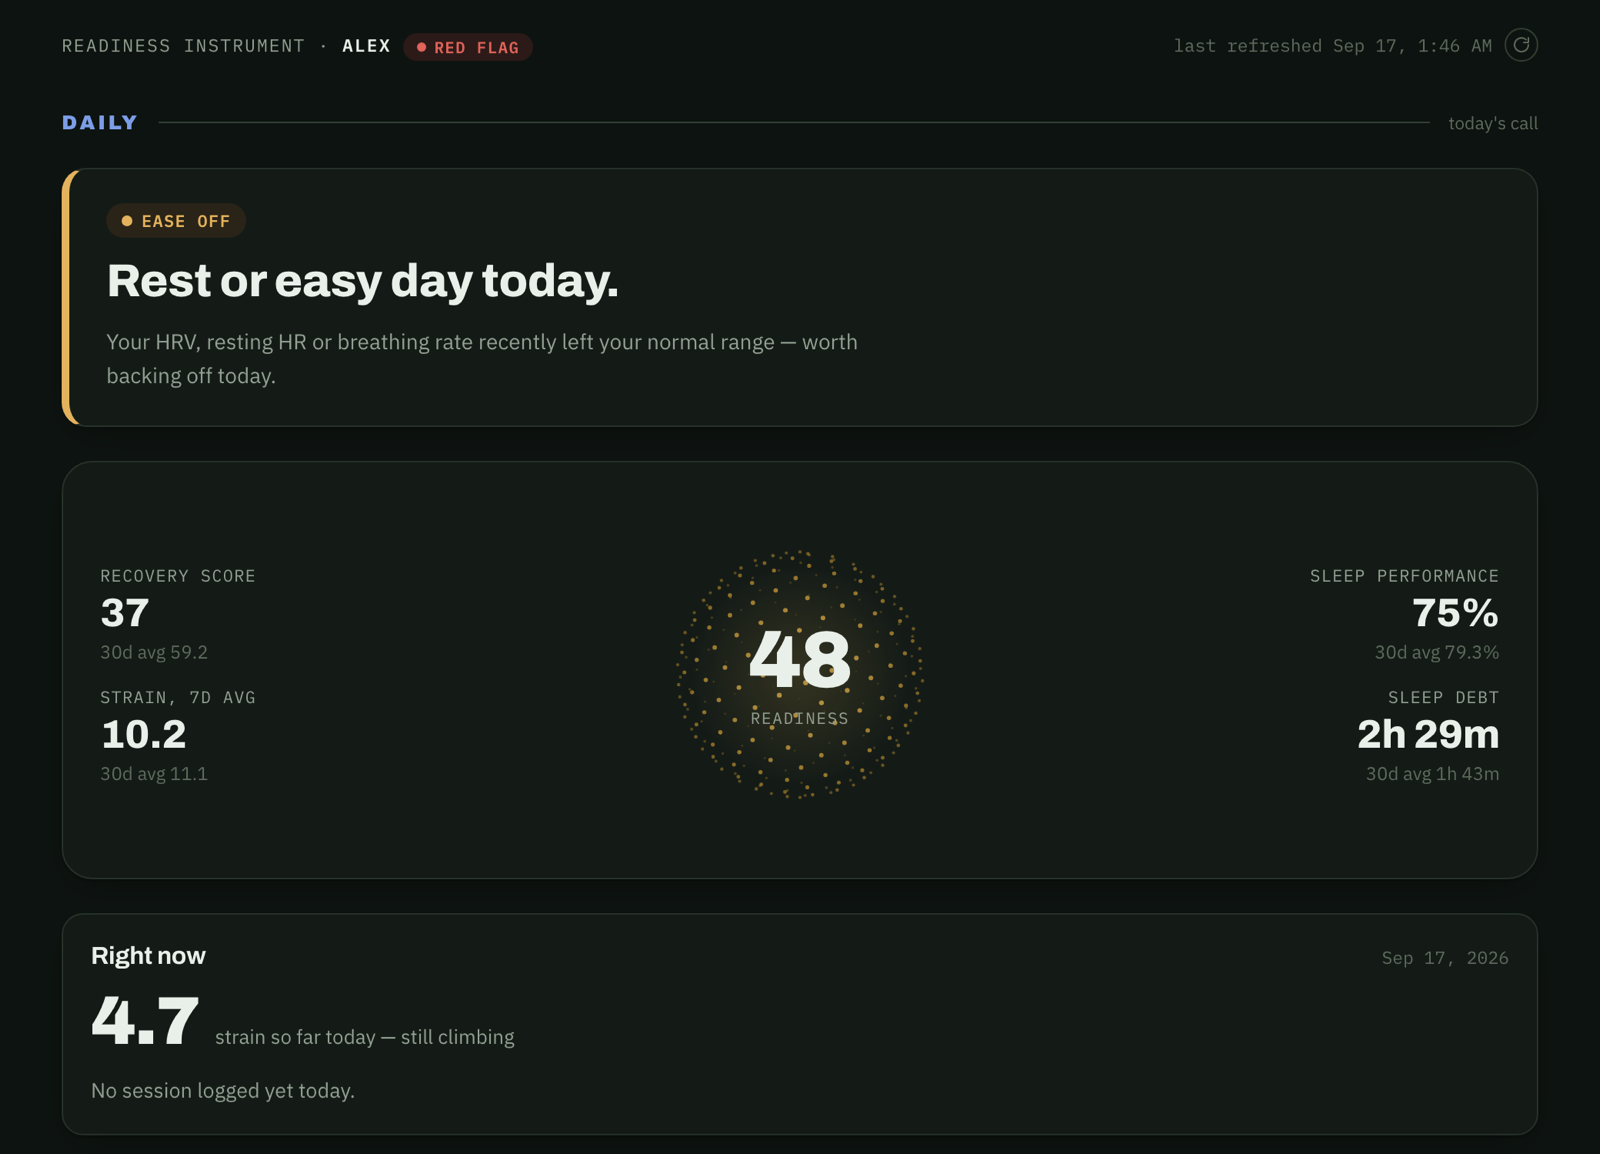
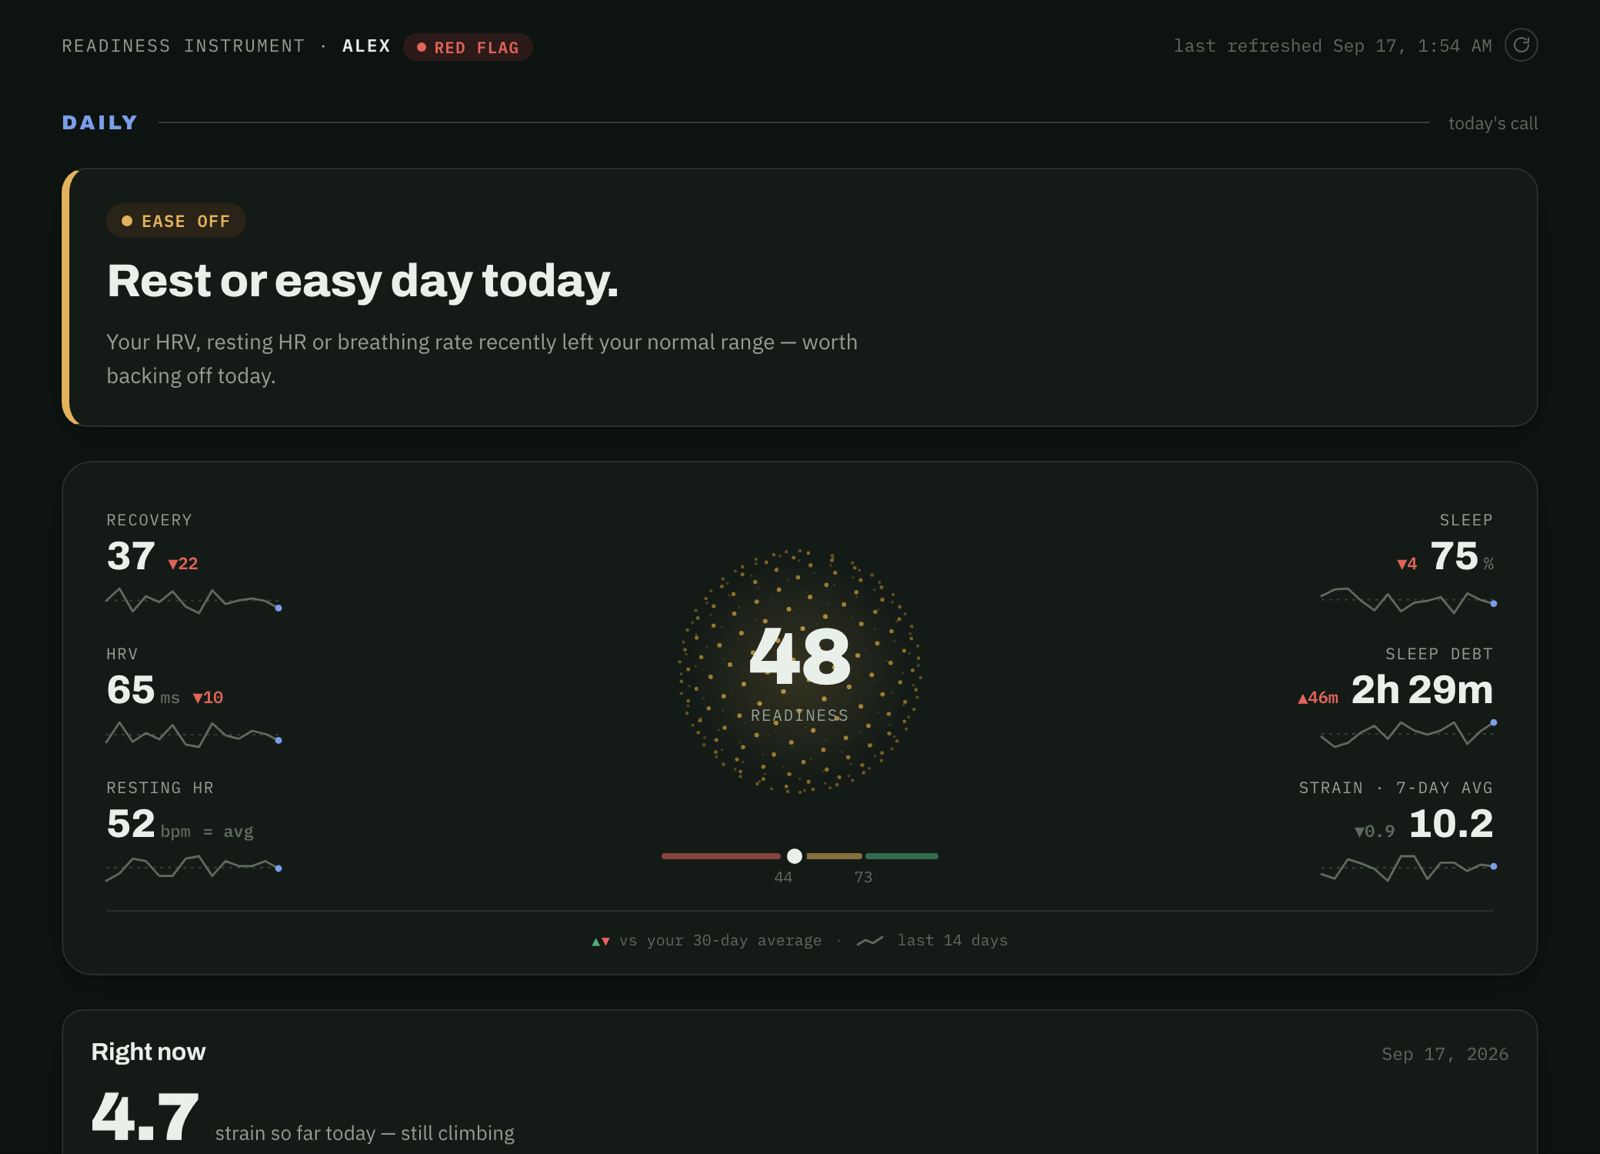
Redesign the vitals card: trends, deltas, readiness scale
- Six vitals in two groups (recovery, HRV, resting HR / sleep, sleep debt,
  7-day strain), each with its change vs the 30-day average, colored by
  whether higher or lower is better, and a 14-day sparkline with the
  average as a dashed reference
- Readiness scale under the orb, split at the person's own rest/push
  thresholds and updated live by the model sliders
- One-time count-up on first load; the final value is written first so a
  stalled animation can never show a wrong number
- Deltas hidden until there are 14+ days of history; today's in-progress
  strain excluded from its trend line; tick labels never overlap
- Phone layout: orb on top, vitals in two columns
- README feature list and overview screenshot updated

diff --git a/dashboard_template.html b/dashboard_template.html
@@ -133,16 +133,41 @@
 
   .hero{
     background:var(--surface); border:1px solid var(--border); border-radius:20px; box-shadow:var(--shadow);
-    padding:28px 24px 22px; display:grid; grid-template-columns:1fr minmax(220px,280px) 1fr;
-    align-items:center; gap:18px;
+    padding:26px 28px 16px; display:grid; grid-template-columns:1fr minmax(220px,260px) 1fr;
+    align-items:center; column-gap:24px; row-gap:14px;
   }
-  @media (max-width:680px){.hero{grid-template-columns:1fr;}}
-  .flank{display:flex;flex-direction:column;gap:14px;}
-  .flank-item{display:flex;flex-direction:column;gap:3px;}
-  .flank-item .label{font-family:"IBM Plex Mono",monospace;font-size:11px;letter-spacing:0.06em;text-transform:uppercase;color:var(--ink-muted);}
-  .flank-item .value{font-family:"Archivo",sans-serif;font-weight:800;font-size:26px;letter-spacing:-0.01em;}
-  .flank-item .sub{font-size:12px;color:var(--ink-faint);}
-  .flank-item.right{align-items:flex-end;text-align:right;}
+  .flank{display:flex;flex-direction:column;gap:18px;min-width:0;}
+  .stat{display:flex;flex-direction:column;gap:2px;min-width:0;}
+  .flank.right .stat{align-items:flex-end;text-align:right;}
+  .stat .label{font-family:"IBM Plex Mono",monospace;font-size:10.5px;letter-spacing:0.07em;text-transform:uppercase;color:var(--ink-muted);white-space:nowrap;}
+  .stat .row{display:flex;align-items:baseline;gap:8px;}
+  .flank.right .stat .row{flex-direction:row-reverse;}
+  .stat .value{font-family:"Archivo",sans-serif;font-weight:800;font-size:26px;line-height:1.15;letter-spacing:-0.01em;white-space:nowrap;}
+  .stat .value small{font-family:"IBM Plex Mono",monospace;font-size:11px;font-weight:500;color:var(--ink-faint);margin-left:3px;letter-spacing:0;}
+  .stat .delta{font-family:"IBM Plex Mono",monospace;font-size:11px;font-weight:600;white-space:nowrap;color:var(--ink-faint);}
+  .stat .delta.good{color:var(--good);}
+  .stat .delta.bad{color:var(--critical);}
+  .stat .spark{display:block;width:112px;height:18px;margin-top:3px;color:var(--ink-faint);overflow:visible;}
+  .stat .spark .avg{stroke:var(--border-strong);}
+  .stat .spark .dot{fill:var(--accent);}
+  .ready-scale{width:180px;}
+  .rs-track{position:relative;display:flex;gap:2px;height:4px;}
+  .rs-seg{height:100%;border-radius:2px;opacity:.55;}
+  .rs-seg.low{background:var(--critical);} .rs-seg.mid{background:var(--warn);} .rs-seg.high{background:var(--good);}
+  .rs-marker{position:absolute;top:50%;width:10px;height:10px;margin:-5px 0 0 -5px;border-radius:50%;background:var(--ink);box-shadow:0 0 0 3px var(--surface);transition:left .6s cubic-bezier(.2,.7,.2,1);}
+  .rs-ticks{position:relative;height:14px;margin-top:5px;font-family:"IBM Plex Mono",monospace;font-size:10px;color:var(--ink-faint);}
+  .rs-ticks span{position:absolute;transform:translateX(-50%);}
+  .hero-legend{grid-column:1 / -1;display:flex;justify-content:center;align-items:center;gap:8px;flex-wrap:wrap;
+    padding-top:12px;border-top:1px solid var(--border);font-family:"IBM Plex Mono",monospace;font-size:10px;color:var(--ink-faint);}
+  .hero-legend b{font-weight:600;font-size:9px;} .hero-legend .up{color:var(--good);} .hero-legend .down{color:var(--critical);margin-left:1px;}
+  .hero-legend svg{vertical-align:middle;margin-right:3px;}
+  .hero-legend .sep{opacity:.6;}
+  @media (max-width:680px){
+    .hero{grid-template-columns:1fr 1fr;padding:22px 18px 14px;column-gap:14px;}
+    .hero .orb-col{grid-column:1 / -1;order:-1;}
+    .stat .value{font-size:23px;}
+    .stat .spark{width:100%;max-width:112px;}
+  }
   .orb-col{display:flex;flex-direction:column;align-items:center;gap:8px;}
   .orb-stage{position:relative;width:220px;height:220px;}
   .orb-stage canvas{position:absolute;inset:0;width:100%;height:100%;}
@@ -401,21 +426,20 @@
     <div class="why" id="decisionWhy"></div>
   </section>
 
-  <section class="hero">
-    <div class="flank">
-      <div class="flank-item"><div class="label">Recovery score</div><div class="value tnum" id="statRecovery">—</div><div class="sub" id="statRecoverySub">30d avg —</div></div>
-      <div class="flank-item"><div class="label">Strain, 7d avg</div><div class="value tnum" id="statStrain">—</div><div class="sub" id="statStrainSub">30d avg —</div></div>
-    </div>
+  <section class="hero" id="heroCard">
+    <div class="flank" id="flankBody"></div>
     <div class="orb-col">
       <div class="orb-stage">
         <canvas id="orb" width="440" height="440"></canvas>
         <div class="orb-readout"><div class="num tnum" id="orbNum">—</div><div class="cap">Readiness</div></div>
       </div>
+      <div class="ready-scale" id="readyScale" aria-hidden="true">
+        <div class="rs-track"><span class="rs-seg low"></span><span class="rs-seg mid"></span><span class="rs-seg high"></span><span class="rs-marker" id="rsMarker"></span></div>
+        <div class="rs-ticks"><span id="rsLow">—</span><span id="rsHigh">—</span></div>
+      </div>
     </div>
-    <div class="flank">
-      <div class="flank-item right"><div class="label">Sleep performance</div><div class="value tnum" id="statSleep">—</div><div class="sub" id="statSleepSub">30d avg —</div></div>
-      <div class="flank-item right"><div class="label">Sleep debt</div><div class="value tnum" id="statDebt">—</div><div class="sub" id="statDebtSub">30d avg —</div></div>
-    </div>
+    <div class="flank right" id="flankLoad"></div>
+    <div class="hero-legend"><span><b class="up">▲</b><b class="down">▼</b> vs your 30-day average</span><span class="sep">·</span><span><svg width="18" height="8" viewBox="0 0 18 8"><polyline points="1,6 6,3 11,5 17,1" fill="none" stroke="currentColor" stroke-width="1.4" stroke-linecap="round" stroke-linejoin="round"/></svg> last 14 days</span></div>
   </section>
 
   <section class="card" id="rightNowCard">
@@ -773,7 +797,17 @@ function renderDecision(){
   $('statePill').textContent = pillText;
   $('decisionHeadline').textContent = headline;
   $('decisionWhy').innerHTML = why;
-  $('orbNum').textContent = Math.round(readiness);
+  countUp($('orbNum'), readiness, v => String(Math.round(v)));
+  // readiness scale: marker on a 0–100 track split at this person's own thresholds
+  $('readyScale').querySelector('.low').style.flex = String(ctrl.restTh);
+  $('readyScale').querySelector('.mid').style.flex = String(Math.max(0, ctrl.pushTh - ctrl.restTh));
+  $('readyScale').querySelector('.high').style.flex = String(Math.max(0, 100 - ctrl.pushTh));
+  $('rsMarker').style.left = clamp(readiness, 0, 100) + '%';
+  // keep the two tick labels at least ~22px apart on the 180px track so they never overlap
+  const gap = 12, mid = (ctrl.restTh + ctrl.pushTh) / 2;
+  const lowPos = Math.min(ctrl.restTh, mid - gap / 2), highPos = Math.max(ctrl.pushTh, mid + gap / 2);
+  $('rsLow').style.left = lowPos + '%'; $('rsLow').textContent = ctrl.restTh;
+  $('rsHigh').style.left = highPos + '%'; $('rsHigh').textContent = ctrl.pushTh;
   drawOrb(readiness);
   renderSuggestions(state, calc, alreadyTrainedHard, overloadCombo, rest);
 
@@ -843,21 +877,94 @@ function renderSuggestions(state, calc, alreadyTrainedHard, overloadCombo, rest)
   tTxt.innerHTML = '<b>Recovery tips:</b><br>' + tips.slice(0,3).map(t=>'· '+t).join('<br>');
 }
 
+// One-time count-up on first paint. The final value is written first, so if animation
+// frames never run (hidden window, reduced motion, an error) the real number is already shown.
+let firstPaint = true;
+function countUp(el, target, format){
+  el.textContent = format(target);
+  if(!firstPaint || reduceMotionPref() || !isFinite(target)) return;
+  const t0 = performance.now(), dur = 750;
+  const step = (now)=>{
+    const k = Math.min(1, (now - t0) / dur), eased = 1 - Math.pow(1 - k, 3);
+    el.textContent = format(target * eased);
+    if(k < 1) requestAnimationFrame(step); else el.textContent = format(target);
+  };
+  requestAnimationFrame(step);
+}
+function reduceMotionPref(){ return window.matchMedia('(prefers-reduced-motion: reduce)').matches; }
+
+function sparkline(points, avg){
+  const vals = points.map(p => p.v).filter(v => v != null && isFinite(v));
+  if(vals.length < 2) return '';
+  const W = 112, H = 18, lo = Math.min(...vals, avg ?? Infinity), hi = Math.max(...vals, avg ?? -Infinity);
+  const span = hi - lo || 1;
+  const x = i => (i / (vals.length - 1)) * W, y = v => H - 1 - ((v - lo) / span) * (H - 2);
+  const pts = vals.map((v, i) => `${x(i).toFixed(1)},${y(v).toFixed(1)}`).join(' ');
+  const avgLine = avg != null ? `<line class="avg" x1="0" x2="${W}" y1="${y(avg).toFixed(1)}" y2="${y(avg).toFixed(1)}" stroke-width="1" stroke-dasharray="2 3"/>` : '';
+  const last = vals[vals.length - 1];
+  return `<svg class="spark" viewBox="0 0 ${W} ${H}" preserveAspectRatio="none">${avgLine}<polyline points="${pts}" fill="none" stroke="currentColor" stroke-width="1.4" stroke-linecap="round" stroke-linejoin="round" vector-effect="non-scaling-stroke"/><circle class="dot" cx="${x(vals.length-1).toFixed(1)}" cy="${y(last).toFixed(1)}" r="2.2"/></svg>`;
+}
+
 function renderStats(){
-  const L = DATA.latest, A = DATA.avg30;
+  const L = DATA.latest, A = DATA.avg30, F = DATA.full_series;
   $('athleteName').textContent = DATA.profile.name;
   if(DATA.generated_at){
     $('lastRefreshed').textContent = 'last refreshed ' + new Date(DATA.generated_at).toLocaleString(undefined,{month:'short',day:'numeric',hour:'numeric',minute:'2-digit'});
   }
-  $('statRecovery').textContent = Math.round(L.recovery_score);
-  $('statRecoverySub').textContent = `30d avg ${fmt1(A.recovery_score)}`;
-  $('statStrain').textContent = fmt1(DATA.avg7_strain);
-  $('statStrainSub').textContent = `30d avg ${fmt1(A.strain)}`;
-  $('statSleep').textContent = Math.round(L.sleep_performance_percentage) + '%';
-  $('statSleepSub').textContent = `30d avg ${fmt1(A.sleep_performance_percentage)}%`;
-  $('statDebt').textContent = fmtHM(L.sleep_debt_hours);
-  const debt30 = (DATA.full_series.sleep_debt || []).slice(-30).map(p => p.v).filter(v => v != null);
-  $('statDebtSub').textContent = debt30.length ? `30d avg ${fmtHM(debt30.reduce((a,b)=>a+b,0) / debt30.length)}` : '';
+  const snapNow = DATA.today_snapshot;
+  const lastN = (key, n) => {
+    let pts = F[key] || [];
+    // today's strain is still accumulating — plotting it would draw a fake dip at the end
+    if(key === 'strain' && snapNow && snapNow.in_progress && pts.length && pts[pts.length-1].date === snapNow.date) pts = pts.slice(0, -1);
+    return pts.slice(-n);
+  };
+  const meanOf = (arr) => { const v = arr.map(p => p.v).filter(x => x != null && isFinite(x)); return v.length ? v.reduce((a,b)=>a+b,0) / v.length : null; };
+  const int = v => String(Math.round(v));
+
+  // better: +1 = higher is better, -1 = lower is better, 0 = neutral (no good/bad color)
+  const stats = {
+    body: [
+      {label:'Recovery', value:L.recovery_score, avg:A.recovery_score, series:'recovery', fmt:int, dfmt:int, better:1, tol:2},
+      {label:'HRV', unit:'ms', value:L.hrv_rmssd_milli, avg:A.hrv_rmssd_milli, series:'hrv', fmt:int, dfmt:int, better:1, tol:2},
+      {label:'Resting HR', unit:'bpm', value:L.resting_heart_rate, avg:A.resting_heart_rate, series:'rhr', fmt:int, dfmt:int, better:-1, tol:1},
+    ],
+    load: [
+      {label:'Sleep', unit:'%', value:L.sleep_performance_percentage, avg:A.sleep_performance_percentage, series:'sleep_performance', fmt:int, dfmt:int, better:1, tol:2},
+      {label:'Sleep debt', value:L.sleep_debt_hours, avg:meanOf(lastN('sleep_debt', 30)), series:'sleep_debt', fmt:fmtHM, dfmt:fmtHM, better:-1, tol:0.1},
+      {label:'Strain · 7-day avg', value:DATA.avg7_strain, avg:A.strain, series:'strain', fmt:fmt1, dfmt:fmt1, better:0, tol:0.3},
+    ],
+  };
+
+  function statHTML(st, i){
+    const ok = st.value != null && isFinite(st.value);
+    let delta = '';
+    // a "vs 30-day average" only means something once there's a real baseline (2+ weeks)
+    if(ok && st.avg != null && isFinite(st.avg) && (F[st.series] || []).length >= 14){
+      const d = st.value - st.avg;
+      if(Math.abs(d) < st.tol){
+        delta = `<span class="delta" title="about your 30-day average">= avg</span>`;
+      } else {
+        const cls = st.better === 0 ? '' : ((d > 0) === (st.better > 0) ? 'good' : 'bad');
+        delta = `<span class="delta ${cls}">${d > 0 ? '▲' : '▼'}${st.dfmt(Math.abs(d))}</span>`;
+      }
+    }
+    return `<div class="stat"><div class="label">${st.label}</div>
+      <div class="row"><div class="value tnum" data-stat="${i}">${ok ? st.fmt(st.value) : '—'}${st.unit && ok ? `<small>${st.unit}</small>` : ''}</div>${delta}</div>
+      ${sparkline(lastN(st.series, 14), st.avg)}</div>`;
+  }
+  const all = [...stats.body, ...stats.load];
+  $('flankBody').innerHTML = stats.body.map((st, i) => statHTML(st, i)).join('');
+  $('flankLoad').innerHTML = stats.load.map((st, i) => statHTML(st, i + 3)).join('');
+
+  // count-up on the plain numbers (duration strings like "1h 50m" just appear)
+  document.querySelectorAll('#heroCard .value[data-stat]').forEach(el => {
+    const st = all[+el.dataset.stat];
+    if(st.value == null || !isFinite(st.value) || st.fmt === fmtHM) return;
+    const unit = el.querySelector('small');
+    const node = document.createTextNode('');
+    el.textContent = ''; el.appendChild(node); if(unit) el.appendChild(unit);
+    countUp({ set textContent(t){ node.nodeValue = t; } }, st.value, st.fmt);
+  });
 }
 
 /* ---------------- right now (today) ---------------- */
@@ -1629,6 +1736,7 @@ function renderAll(){
 }
 wireControls();
 renderAll();
+firstPaint = false;
 window.addEventListener('resize', ()=>{ renderExplorer(); renderStageChart(); renderMonthly(); renderWeekday(); renderACWR(); renderMonotony(); renderZoneDistribution(); });
 
 /* ================= day-type click panel ================= */

diff --git a/README.md b/README.md
@@ -56,7 +56,10 @@ behind it, calibrated to **your own** history rather than generic cut-offs.
 - **Day badge** (Red flag · Recovery · Peak · Grind). Click it to see today's numbers
   next to the line where each one flags, and how every badge is decided.
 - **Readiness score** blending recovery, sleep performance, recent load, and sleep
-  debt, with adjustable weights and thresholds.
+  debt, with a scale showing where today sits between *your* rest and push thresholds.
+- **Vitals at a glance** — recovery, HRV, resting HR, sleep, sleep debt, and 7-day
+  strain, each with its change vs your 30-day average (green = better, red = worse)
+  and a 14-day trend line.
 - **Today's plan** — which kind of session fits today, based on how *you* have
   recovered from each sport before.
 - **Fatigue signal** — flags nights when HRV, resting heart rate, or breathing rate
